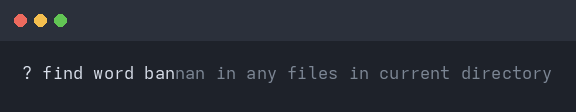
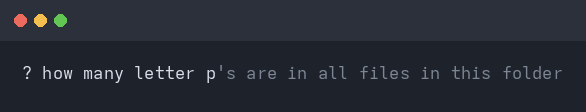
Replace the misspelled suggestion example; consolidate the README
- suggest.png now types "how many letter p's are in all files in this
  folder" instead of the misspelled "bannan" line.
- Drop the separate "What it does" bullets, which duplicated the examples,
  and merge "How it works", "Command line" and "Design" into one "Under the
  hood" section. All examples now live in a single place.

diff --git a/tools/screenshots.py b/tools/screenshots.py
@@ -187,9 +187,9 @@ def shot_suggest() -> str:
 
     tty = FakeTty()
     editor = prompt_mod.LineEditor(tty)
-    editor.lines = ["find word bannan in any files in current directory"]
-    editor.words = ["file", "files", "directory", "largest"]
-    editor._render("? ", "find word ban")
+    editor.lines = ["how many letter p's are in all files in this folder"]
+    editor.words = ["files", "folder", "letter"]
+    editor._render("? ", "how many letter p")
     return tty._out.getvalue()
 
 

diff --git a/README.md b/README.md
@@ -4,10 +4,9 @@ A small helper that sits at your shell prompt. Press a key, ask for something,
 and a local model either answers or hands you the commands to do it. Every
 command is printed first and waits for a `y`. Nothing runs on its own.
 
-Everything stays on this machine. The model runs locally through
-[llama.cpp](https://github.com/ggml-org/llama.cpp), so there is no account, no
-cloud key and no telemetry. Web search is the one exception, and it is off until
-you turn it on.
+It runs on your machine through [llama.cpp](https://github.com/ggml-org/llama.cpp),
+so there is no account, no cloud key and no telemetry. Web search is the one
+exception, and it is off until you turn it on.
 
 ![one key, three kinds of reply](docs/screenshots/modes.png)
 
@@ -19,29 +18,17 @@ you turn it on.
 | `Ctrl+Y` | ask with a bigger token budget, for harder questions |
 | `Ctrl+C` | cancel |
 
-`Alt+;` and `Alt+:` do the same thing, but only if your terminal and keyboard
-layout pass `Alt` through. On layouts where `;` needs Shift (Norwegian, German,
-…) stick with the `Ctrl` keys. If a key doesn't fire, run `term-helper keys` and
-it will show you exactly what your terminal sends.
-
-## What it does
-
-- Answers questions about your machine: *what's using port 8080?*
-- Answers plain questions too, like *what is a hardlink?* It decides on its own
-  whether to answer or to plan.
-- Turns a request into shell commands, each with a short reason.
-- Asks before running anything. Enter or `n` skips a step.
-- Puts what it ran into your shell history, so `Ctrl+R` finds it later.
-- Searches the web when it needs current facts, if you've turned that on.
-
-It won't run things unattended, and it won't quietly send your work to a cloud
-model.
+`Alt+;` and `Alt+:` do the same, but only if your terminal and keyboard layout
+pass `Alt` through. On layouts where `;` needs Shift (Norwegian, German, …) use
+the `Ctrl` keys. If a key doesn't fire, `term-helper keys` shows exactly what
+your terminal sends.
 
 ## Examples
 
-### Ask for a command
+Press `Ctrl+G`, type, press Enter. You get one of three things: a command to
+approve, a plain answer, or a web search.
 
-Press `Ctrl+G`, type, press Enter:
+### A command
 
 ![typing a question with an inline suggestion](docs/screenshots/suggest.png)
 
@@ -56,7 +43,7 @@ Press `Ctrl+G`, type, press Enter:
   LISTEN 0 4096 127.0.0.1:8080 0.0.0.0:* users:(("llama-server",pid=4242,fd=9))
 ```
 
-It can plan a few steps at a time when the job needs it:
+It plans a few steps when the job needs it:
 
 ```
 ? find the five biggest files under here and show me what they are
@@ -78,22 +65,16 @@ It can plan a few steps at a time when the job needs it:
   ./backups/old-home.tar: POSIX tar archive
 ```
 
-### When it just answers
-
-No commands, no approval prompt, just an answer:
+### An answer
 
 ```
 ? what's the difference between a hardlink and a symlink?
 
   A hardlink is another name for the same inode, so the two names are truly
-  equal and either one can be deleted without losing the data. A symlink is a
-  separate file that points at a path; delete the target and the symlink dangles.
+  equal; a symlink is a separate file that points at a path.
 ```
 
-### Searching the web
-
-If you've enabled search, the model reaches for it only when it needs something
-current. You'll see the query before the answer:
+### A web search
 
 ```
 ? what's the latest stable linux kernel version?
@@ -102,7 +83,7 @@ current. You'll see the query before the answer:
   The latest stable release is ...
 ```
 
-### When you say no
+### A declined command
 
 ```
 ? clean up the .tmp files in here
@@ -140,8 +121,8 @@ Then restart your shell and press `Ctrl+G`.
 | medium | Qwen2.5-Coder 7B | 4.4 GB | 8 GB RAM, ideally a GPU |
 | large | Qwen2.5-Coder 14B | 8.4 GB | 16 GB RAM + 12 GB VRAM to be quick |
 
-On a 16 GB AMD desktop GPU the 14B generates at around 37 tok/s. On CPU alone
-it's closer to 3 tok/s, which is not pleasant. If you have no GPU, pick a small
+On a 16 GB AMD GPU the 14B generates at around 37 tok/s. On CPU alone it's
+closer to 3 tok/s, which is not pleasant. If you have no GPU, pick a small
 model.
 
 ## Web search
@@ -153,30 +134,26 @@ Off by default. Turn it on in `~/.config/term-helper/config.toml`:
 web_search = true
 ```
 
-Then the model can ask for a search when a question needs current facts. The
-helper runs the query, hands the results back, and the model answers. Only the
-query text leaves your machine, not your files or shell history. Every search is
+Then the model can search when a question needs current facts. Only the query
+text leaves your machine, not your files or shell history, and every search is
 printed with `↗` so you can see it happen.
 
-The default backend is DuckDuckGo: free, no account. If you'd rather use Kagi,
-set `kagi_api_key` in the config (or the `KAGI_API_KEY` environment variable).
-One thing worth knowing: Kagi's Search API is billed per request, separately
-from a Kagi subscription, at roughly 1.2¢ per query.
+The default backend is DuckDuckGo: free, no account. To use Kagi instead, set
+`kagi_api_key` in the config (or the `KAGI_API_KEY` environment variable). Note
+that Kagi's Search API is billed per request, separately from a Kagi
+subscription, at roughly 1.2¢ per query.
 
 ## Security
 
 The local model server is bound to loopback only. `base_url` has to be
-`127.0.0.1`, `::1` or `localhost`; anything else is refused, and flags that would
-re-expose it are rejected too.
+`127.0.0.1`, `::1` or `localhost`, and flags that would re-expose it are refused.
 
-On top of that, the systemd unit denies all network traffic except localhost,
-turns off llama.cpp's web UI and slot monitoring, and runs with
-`NoNewPrivileges`, `ProtectSystem=strict` and `ProtectHome=read-only`.
-
-Every request is authenticated with a per-user API key that's generated at
-install time and kept at mode `0600` in the state directory. That means a web
-page or another process on your machine can't just knock on the port and drive
-the model.
+The systemd unit denies all network traffic except localhost, turns off
+llama.cpp's web UI and slot monitoring, and runs with `NoNewPrivileges`,
+`ProtectSystem=strict` and `ProtectHome=read-only`. Every request is
+authenticated with a per-user API key generated at install time and kept at mode
+`0600` in the state directory, so a web page or another process can't just knock
+on the port and drive the model.
 
 ## Honest limitations
 
@@ -194,20 +171,7 @@ the model.
   syntax-checked, but less exercised. Other distros should be fine: the core is
   stdlib Python, and the shims only touch shell history and the line editor.
 
-## Command line
-
-```
-term-helper setup                 # detect hardware, pick and download a model
-term-helper ask [--deep] [--dry-run] [--yes]
-term-helper server {start,stop,status}
-term-helper models {list,pull}
-term-helper log [--tail N] [--runs]
-term-helper doctor                # check binary, model, server, shims
-term-helper keys                  # what does this keypress send?
-term-helper install / uninstall   # re-wire or remove the shell shims
-```
-
-## How it works
+## Under the hood
 
 ```mermaid
 flowchart LR
@@ -226,20 +190,27 @@ flowchart LR
 The model is asked for one JSON object: an answer, a plan, or a search query. A
 plan is a list of steps, each with a command, a reason and a risk hint. A JSON
 schema constrains the decoding, so the reply is always parseable. The risk label
-is only a hint, never a permission. You are the one who approves.
+is only a hint, never a permission.
 
-## Design
+The CLI:
+
+```
+term-helper setup                 # detect hardware, pick and download a model
+term-helper ask [--deep] [--dry-run] [--yes]
+term-helper server {start,stop,status}
+term-helper models {list,pull}
+term-helper log [--tail N] [--runs]
+term-helper doctor                # check binary, model, server, shims
+term-helper keys                  # what does this keypress send?
+term-helper install / uninstall   # re-wire or remove the shell shims
+```
 
 The vocabulary lives in [`GLOSSARY.md`](GLOSSARY.md) and the decisions are
 recorded as ADRs in [`docs/adr/`](docs/adr/): local-only, llama.cpp as the
 backend, every command approved, a JSON-schema contract, and a shell-agnostic
-core with thin shims.
-
-The core (`term_helper/`) is Python 3.11+ and standard library only.
-`term_helper/policy.py` labels commands read-only or state-changing purely to
-inform your decision. It gates nothing.
+core with thin shims. The core (`term_helper/`) is Python 3.11+ and standard
+library only.
 
 ## License
 
 Public domain, via [the Unlicense](LICENSE). Take it and do whatever you want.
-
